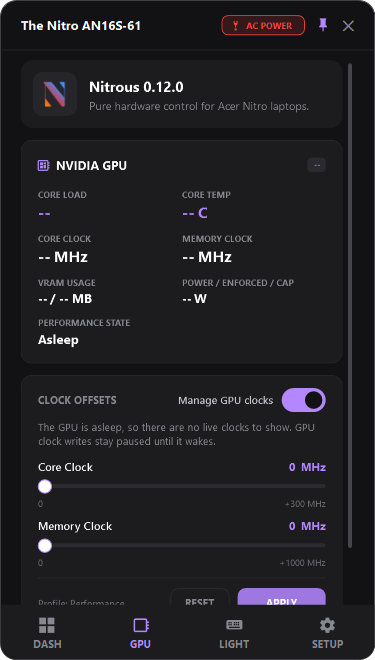
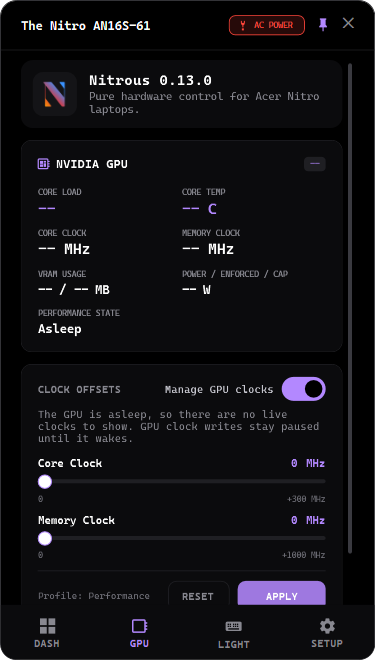
chore(release): 0.13.0
Collapse the five 0.12.1-test sections into one 0.13.0 entry: the appearance
work (background presets, the separate section colour, the installed-only font
list with code faces) shipped as a minor release rather than a patch, alongside
the CoolBoost toggle.

Site fallback version bumped to 0.13.0, the README appearance bullet now lists
the backgrounds, sections and fonts, and the four page screenshots are retaken
in the current theme: violet accent on the black background, Sections Default,
Cascadia Mono.

diff --git a/docs/index.html b/docs/index.html
@@ -78,7 +78,7 @@
           "downloadUrl": "https://github.com/jeremyaliparo/nitrous/releases/latest/download/Nitrous.exe",
           "applicationCategory": "UtilitiesApplication",
           "operatingSystem": "Windows 10, Windows 11",
-          "softwareVersion": "0.12.0",
+          "softwareVersion": "0.13.0",
           "license": "https://github.com/jeremyaliparo/nitrous/blob/master/LICENSE",
           "softwareHelp": "https://github.com/jeremyaliparo/nitrous#readme",
           "releaseNotes": "https://github.com/jeremyaliparo/nitrous/blob/master/CHANGELOG.md",
@@ -216,7 +216,7 @@
       <a class="brand" href="#top">
         <svg class="brand-mark" viewBox="0 0 64 64" aria-hidden="true"><path d="M8 8h12l24 34V8h12v48H44L20 22v34H8z" fill="url(#nitroGrad)"/></svg>
         <span class="brand-name">Nitrous</span>
-        <span class="brand-tag">v<span data-gh-version>0.12.0</span></span>
+        <span class="brand-tag">v<span data-gh-version>0.13.0</span></span>
       </a>
 
       <nav class="nav" id="primary-nav" aria-label="Primary">
@@ -277,7 +277,7 @@
           <div class="hero-cta reveal delay-3">
             <a class="btn btn-primary btn-lg" href="https://github.com/jeremyaliparo/nitrous/releases/latest/download/Nitrous.exe">
               <svg class="icon" aria-hidden="true"><use href="#i-windows"/></svg>
-              Download Nitrous <span class="btn-version" data-gh-version>0.12.0</span>
+              Download Nitrous <span class="btn-version" data-gh-version>0.13.0</span>
             </a>
             <a class="btn btn-ghost btn-lg" href="https://github.com/jeremyaliparo/nitrous" target="_blank" rel="noopener">
               <svg class="icon" aria-hidden="true"><use href="#i-github"/></svg>
@@ -619,7 +619,7 @@
                 <figcaption>Setup · power and battery</figcaption>
               </figure>
             </div>
-            <p class="shot-hint"><span class="pulse-dot" aria-hidden="true"></span>Live app · v<span data-gh-version>0.12.0</span></p>
+            <p class="shot-hint"><span class="pulse-dot" aria-hidden="true"></span>Live app · v<span data-gh-version>0.13.0</span></p>
           </div>
         </div>
       </div>
@@ -815,7 +815,7 @@
               <span class="eyebrow">Latest release</span>
               <span class="release-badge">Stable</span>
             </div>
-            <p class="release-version">v<span data-gh-version>0.12.0</span></p>
+            <p class="release-version">v<span data-gh-version>0.13.0</span></p>
             <p class="release-date">Released <span data-gh-date>Nov 13, 2026</span></p>
 
             <dl class="release-rows">
@@ -961,7 +961,7 @@
               <svg class="icon" aria-hidden="true"><use href="#i-external"/></svg>
             </a>
           </div>
-          <p class="cta-foot">v<span data-gh-version>0.12.0</span> · MIT · Windows 10/11 x64 · .NET 10 Desktop Runtime</p>
+          <p class="cta-foot">v<span data-gh-version>0.13.0</span> · MIT · Windows 10/11 x64 · .NET 10 Desktop Runtime</p>
         </div>
       </div>
     </section>
@@ -986,7 +986,7 @@
           </div>
           <p class="footer-status">
             <span class="pulse-dot" aria-hidden="true"></span>
-            Actively maintained · v<span data-gh-version>0.12.0</span> · <span data-gh-date>Nov 13, 2026</span>
+            Actively maintained · v<span data-gh-version>0.13.0</span> · <span data-gh-date>Nov 13, 2026</span>
           </p>
         </div>
 

diff --git a/CHANGELOG.md b/CHANGELOG.md
@@ -3,54 +3,27 @@
 All notable changes to Nitrous are documented here. The GitHub release for a version is
 published from the matching section of this file.
 
-## 0.12.1-test.5 - 2026-11-13
+## 0.13.0 - 2026-11-13
 
 ### Appearance
 
-- **The Font list only offers what this machine has.** It is built at startup from the families
-  Windows reports, so a font that is not installed never appears - before, a missing family would
-  have sat in the list and quietly fallen back to Segoe UI. A saved choice that has since been
-  removed falls back to Windows default, and the log says which font was asked for and which one
-  was used.
-- **Code fonts.** Cascadia Code, Cascadia Mono, Consolas, JetBrains Mono, Iosevka NF and Fira Code
-  join the list whenever they are installed, alongside Inter. Two layout fixes make them usable:
-  the subtitle under the header now wraps instead of being cut, and the fan card's caption row has
-  its own column instead of running under the CURVE EDITOR and UNIFIED controls. Consolas was held
-  back in the previous build for exactly that clipping; it fits now.
-
-## 0.12.1-test.4 - 2026-11-13
-
-### Appearance
-
-- **Font.** A third list in SETUP > APPEARANCE sets the UI font: **Windows default**, **Segoe UI**,
-  **Bahnschrift**, **Calibri**, **Tahoma** or **Trebuchet MS**. It applies to the dashboard and the
-  fan-curve window alike and changes in place. Every icon is a vector path, so a font cannot break
-  them, and a family that is missing falls back to the Windows UI font rather than letting WPF
-  substitute something else. Consolas was measured and left out: it is wide enough to clip the
-  subtitle and the fan-card captions at these fixed sizes.
-
-## 0.12.1-test.3 - 2026-11-13
-
-### Appearance
-
-- **More backgrounds, and a separate card colour.** The Background list gains **Graphite**, **Slate**
-  and **Navy** beside Midnight and Black, and a new **Sections** list sets the card surface on its
-  own: **Default** keeps the card that belongs to the chosen background, or pick Black, Graphite or
-  Slate. The hover, border, grid, toggle and divider shades are lifted from whichever card is chosen,
-  so a section colour never leaves its controls without an edge. Both choices are stored separately
-  and restored at startup.
-
-## 0.12.1-test.2 - 2026-11-13
-
-### Appearance
-
-- **Background presets.** SETUP > APPEARANCE gains a Background list with **Midnight** (the shipped
-  dark grey) and **Black**. Black sets the window to pure black and rebuilds the card, hover, border
-  and toggle surfaces around it, so text contrast only improves; the accent is untouched. Presets
-  rather than a colour picker because those surfaces are built to match the window colour, and an
-  arbitrary pick could leave the labels unreadable.
-
-## 0.12.1-test.1 - 2026-11-13
+- **Background presets.** SETUP > APPEARANCE gains a Background list: **Midnight** (the shipped dark
+  grey), **Black**, **Graphite**, **Slate** and **Navy**. Each preset rebuilds the card, hover,
+  border, grid and toggle shades around the window colour, so text contrast holds and nothing loses
+  its edge. Presets rather than a colour picker because those surfaces are built to match the window
+  colour, and an arbitrary pick could leave the labels unreadable.
+- **Sections.** A second list sets the card surface on its own: **Default** keeps the card that
+  belongs to the chosen background, or pick Black, Graphite or Slate. The shades that sit on the card
+  are lifted from it, so a section colour never leaves its controls without an edge. Background and
+  Sections are stored separately and both are restored at startup.
+- **Font.** A third list sets the UI font, applied to the dashboard and the fan-curve window alike.
+  It is built from the fonts this machine actually has: Windows default, Segoe UI, Bahnschrift,
+  Calibri, Tahoma, Trebuchet MS and Inter, plus Cascadia Code, Cascadia Mono, Consolas, JetBrains
+  Mono, Iosevka NF and Fira Code as code faces when they are installed. A family that is not
+  installed is not offered, and a saved choice that has since been removed falls back to the Windows
+  font and says so in the log.
+- The header subtitle now wraps instead of being cut at the card edge, and the fan card's caption row
+  has its own column, so a wide or monospaced font no longer clips either.
 
 ### Cooling
 
@@ -66,6 +39,7 @@ published from the matching section of this file.
 
 - The README claimed compatibility with 2021+ models; a 2019 **AN517-51** runs it, added to the
   confirmed list. The compatibility text now says the protocol decides, not the year.
+
 
 ## 0.12.0 - 2026-11-13
 

diff --git a/README.md b/README.md
@@ -44,7 +44,7 @@ OEM control centers install heavy background service stacks, telemetry daemons, 
 | **GPU** | • **Clock Offsets:** Core and memory frequency offsets with live clocks, utilization, and thermal readouts.<br>• **Opt-In Ownership:** Clock writes are **off by default** so external tools (like MSI Afterburner) are never overwritten unexpectedly. When enabled, a background watchdog automatically repairs driver clock drift. |
 | **Display** | • **Dynamic Refresh Rate:** Switch to any refresh rate the panel advertises. `Auto` uses your chosen rate on AC and 60 Hz on battery.<br>• **LCD Overdrive:** Panel response overdrive where the display reports support for it. |
 | **Lighting** | • **TOTAL LIGHTNING CONTROL:** Global and Area presets — four per-zone colours or one effect across all zones, with brightness and speed, driven through the keyboard's own HID controller.<br>• **Screen & Sound Sync:** Follow the screen's colours, run the active effect on the audio, or combine screen colours with an audio beat - with four-band Spectrum, bass Beat, the Vibe five-step engine, saturation and a silence floor.<br>• **Cover Logo:** The lid logo is driven too, with Static, Breathing and Neon effects and five speed steps.<br>• **Mode Flash:** The keyboard acknowledges a power-profile change in the mode's colour, as the OEM software does.<br>• **Fit to Hardware:** Single-colour keyboards get one Colour chip instead of four dead zones, and a model with no reachable controller gets no LIGHT tab at all. |
-| **System & App** | • **OEM Service Disabler:** One-click disable (and exact restore) of stock Acer background services.<br>• **Appearance:** Seven fixed accents, `Auto` (follow Windows) or any custom colour, contrast-checked and remembered across sessions.<br>• **Hardware Diagnostics:** Built-in redacted diagnostic bundler and read-only EC probe for comparing unsupported Nitro models. |
+| **System & App** | • **OEM Service Disabler:** One-click disable (and exact restore) of stock Acer background services.<br>• **Appearance:** Seven fixed accents, `Auto` (follow Windows) or any custom colour; five window backgrounds (Midnight, Black, Graphite, Slate, Navy) with the card surface set separately; and a UI font chosen from the families your PC actually has, code faces included. All remembered across sessions.<br>• **Hardware Diagnostics:** Built-in redacted diagnostic bundler and read-only EC probe for comparing unsupported Nitro models. |
 
 ---
 
